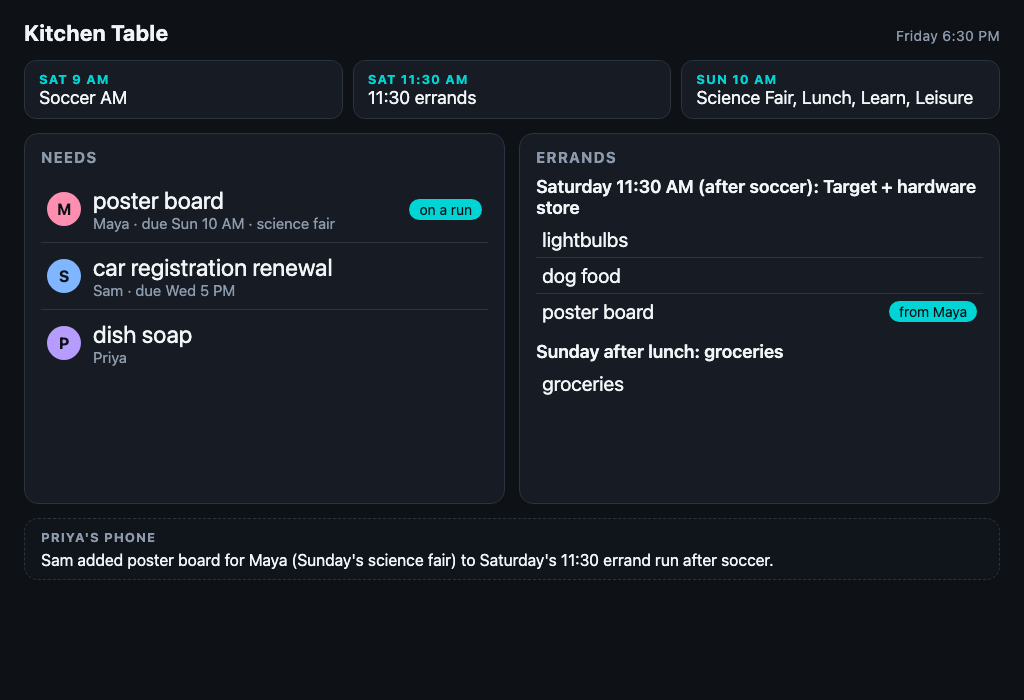
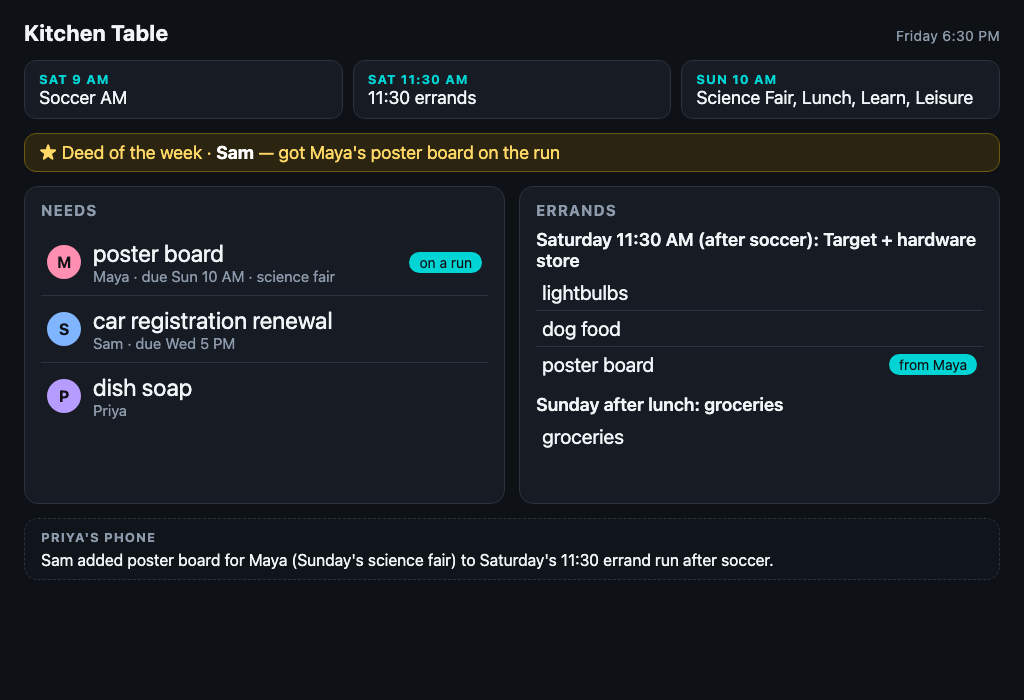
Add Deed of the week: server-awarded, rule-based kudos on the board
The board names the member who did the most for someone else in the last
7 days. Awarded only by the server from confirmed actions: no tool claims
or votes it, self-help does not count, one credit per need, ties go to
whoever reached the count first. Card renders it; README documents it and
the speaker-identity limit.

Tests: 24 (adds no-self-award, no claim/vote tool, repeat-confirm dedupe,
and a retrying same-turn guard test that is not timing-flaky).

diff --git a/tests/mcp.test.ts b/tests/mcp.test.ts
@@ -33,6 +33,8 @@ async function reset(now?: string | null) {
   expect(res.status).toBe(200);
 }
 
+const before0Deed = (state: any) => state.board.deed;
+
 beforeEach(async () => {
   await reset();
 });
@@ -154,15 +156,11 @@ describe("tools", () => {
     expect(p.structuredContent.requires_confirmation).toBe(true);
     expect(p.content[0].text).toBe("Add poster board for Maya to Saturday's 11:30 errand run after soccer, and let Priya know?");
 
+    expect(before0Deed(await (await fetch(`${BASE}/demo/state`)).json())).toBeNull();
     // nothing written yet
     const before = await (await fetch(`${BASE}/demo/state`)).json() as any;
     expect(before.board.needs.find((n: any) => n.need_id === "need_posterboard").status).toBe("open");
     expect(before.inbox).toEqual([]);
-
-    // same-turn confirm is refused
-    const early = await call("confirm_proposal", { proposal_id: p.structuredContent.proposal_id, confirmed: true });
-    expect(early.isError).toBe(true);
-    expect(early.content[0].text).toBe("Let me check with you first.");
 
     await sleep(1100);
     const c = await call("confirm_proposal", { proposal_id: p.structuredContent.proposal_id, confirmed: true });
@@ -172,16 +170,34 @@ describe("tools", () => {
     const sat = c.structuredContent.board.errands.find((e: any) => e.errand_id === "errand_sat_after_soccer");
     expect(sat.items).toContainEqual({ label: "poster board", need_id: "need_posterboard", from: "Maya" });
 
+    expect(c.structuredContent.board.deed).toEqual({ member_id: "member_sam", name: "Sam", count: 1, text: "got Maya's poster board on the run" });
+
     // Priya's inbox
     const after = await (await fetch(`${BASE}/demo/state`)).json() as any;
     expect(after.inbox[0].to_name).toBe("Priya");
     expect(after.inbox[0].text).toBe("Sam added poster board for Maya (Sunday's science fair) to Saturday's 11:30 errand run after soccer.");
 
-    // idempotent
+    // idempotent: a repeat confirm does not add a second credit
     const twice = await call("confirm_proposal", { proposal_id: p.structuredContent.proposal_id, confirmed: true });
     expect(twice.isError).toBeFalsy();
     const final = await (await fetch(`${BASE}/demo/state`)).json() as any;
     expect(final.inbox.length).toBe(1);
+    expect(final.board.deed.count).toBe(1);
+  });
+
+  it("a confirm in the same turn as its question is refused", async () => {
+    // Timing-based by design, so try a few fresh needs: on a slow machine one round trip can pass 1 s.
+    let refused = false;
+    for (let i = 0; i < 4 && !refused; i++) {
+      const n = await call("add_need", { speaker: "Maya", item: `guard probe ${i}`, due: "Sunday" });
+      const p = await call("propose_add_to_errand", { need_id: n.structuredContent.need_id, errand_id: "errand_sat_after_soccer", speaker: "Sam" });
+      const early = await call("confirm_proposal", { proposal_id: p.structuredContent.proposal_id, confirmed: true });
+      if (early.isError) {
+        expect(early.content[0].text).toBe("Let me check with you first.");
+        refused = true;
+      }
+    }
+    expect(refused).toBe(true);
   });
 
   it("confirm with confirmed=false cancels and writes nothing", async () => {
@@ -193,6 +209,19 @@ describe("tools", () => {
     const state = await (await fetch(`${BASE}/demo/state`)).json() as any;
     expect(state.board.needs.find((n: any) => n.need_id === "need_posterboard").status).toBe("open");
     expect(state.inbox).toEqual([]);
+  });
+
+  it("deed of the week: no self-award, nothing to claim, and it is only ever computed by the server", async () => {
+    // Maya schedules her own poster board: that is not a deed for anyone.
+    const p = await call("propose_add_to_errand", { need_id: "need_posterboard", errand_id: "errand_sat_after_soccer", speaker: "Maya" });
+    await call("whats_new_for_me", { speaker: "Priya" }); // does not touch this proposal
+    await sleep(1100);
+    const c = await call("confirm_proposal", { proposal_id: p.structuredContent.proposal_id, confirmed: true });
+    expect(c.isError).toBeFalsy();
+    expect(c.structuredContent.board.deed).toBeNull();
+    // there is no tool that awards or claims a deed
+    const { body } = await rpc("tools/list");
+    expect(body.result.tools.map((t: any) => t.name).join(" ")).not.toMatch(/deed|award|claim|vote/);
   });
 
   it("unknown proposal is a speakable error", async () => {

diff --git a/src/domain.ts b/src/domain.ts
@@ -78,6 +78,8 @@ export interface State {
   counters: { need: number; proposal: number; inbox: number };
   last_speaker: string | null;
   highlight: string | null;
+  /** Verified deeds: one per need, only for someone else's need. Awarded by the server, never claimed. */
+  deeds?: { need_id: string; by: string; owner: string; at_ms: number; text: string }[];
 }
 
 export interface ToolResult {
@@ -167,6 +169,7 @@ export function seed(realNow: number, nowOverride: string | null): State {
     counters: { need: 0, proposal: 0, inbox: 0 },
     last_speaker: null,
     highlight: null,
+    deeds: [],
   };
 }
 
@@ -225,6 +228,27 @@ const byDue = (a: Need, b: Need) => {
   return a.due_ms - b.due_ms || a.created_ms - b.created_ms;
 };
 
+// ---------- Deed of the week ----------
+// Awarded by the server from confirmed actions. No tool lets anyone give or claim it, and there are no votes.
+// Rules: only deeds for someone else's need count; one credit per need; the last 7 days count;
+// most deeds wins; a tie goes to whoever reached that count first; at least one deed is needed.
+const WEEK_MS = 7 * 24 * 3600_000;
+
+function deedOfTheWeek(s: State, now: number) {
+  const recent = (s.deeds ?? []).filter((d) => d.at_ms > now - WEEK_MS && d.at_ms <= now + 3600_000).sort((a, b) => a.at_ms - b.at_ms);
+  if (!recent.length) return null;
+  const tally = new Map<string, { count: number; reached_ms: number; text: string }>();
+  for (const d of recent) {
+    const t = tally.get(d.by) ?? { count: 0, reached_ms: 0, text: "" };
+    t.count += 1;
+    t.reached_ms = d.at_ms;
+    t.text = d.text;
+    tally.set(d.by, t);
+  }
+  const [by, best] = [...tally.entries()].sort((a, b) => b[1].count - a[1].count || a[1].reached_ms - b[1].reached_ms)[0];
+  return { member_id: by, name: nameOf(s, by), count: best.count, text: best.text };
+}
+
 // ---------- board (what the card renders) ----------
 
 export function board(s: State, realNow: number, highlight: string | null = s.highlight) {
@@ -274,6 +298,7 @@ export function board(s: State, realNow: number, highlight: string | null = s.hi
     needs,
     errands,
     strip,
+    deed: deedOfTheWeek(s, now),
     highlight_need_id: highlight,
   };
 }
@@ -462,6 +487,11 @@ function confirm(s: State, a: Record<string, unknown>, now: number, realNow: num
     : `${need.item} for ${nameOf(s, need.owner)}`;
   const text = `${nameOf(s, proposer)} added ${detail} to ${errandDay(errand)} ${errand.speech}.`;
   s.history.push({ at_ms: now, text });
+  // Deed of the week: server-awarded, only for helping someone else, one credit per need.
+  s.deeds = s.deeds ?? [];
+  if (proposer !== need.owner && !s.deeds.some((d) => d.need_id === need.id)) {
+    s.deeds.push({ need_id: need.id, by: proposer, owner: need.owner, at_ms: now, text: `got ${nameOf(s, need.owner)}'s ${need.item} on the run` });
+  }
   const notify: Notification[] = recipients.map((r) => {
     s.inbox.push({ id: `msg_${++s.counters.inbox}`, to: r.id, text, at_ms: now });
     return { to_id: r.id, to_name: r.name, text };

diff --git a/src/card.ts b/src/card.ts
@@ -33,6 +33,8 @@ h1 small{font-weight:400;color:var(--dim);font-size:14px}
 .run .row{font-size:20px;padding:6px}
 .fresh{animation:pop 2.4s ease-out}
 @keyframes pop{0%{background:#00d4d455;transform:scale(1.03)}100%{background:transparent;transform:none}}
+.deed{background:#2a2410;border:1px solid #6b5a14;color:#ffd866;border-radius:12px;padding:8px 14px;font-size:18px}
+.deed b{color:#fff}
 .inbox{background:#10151c;border:1px dashed var(--line);border-radius:14px;padding:10px 16px;font-size:16px}
 .inbox h2{margin:0 0 6px;font-size:13px;color:var(--dim);text-transform:uppercase;letter-spacing:.08em}
 .muted{color:var(--dim)}
@@ -49,6 +51,7 @@ h1 small{font-weight:400;color:var(--dim);font-size:14px}
     if(!b)return;
     var h='<h1>Kitchen Table <small>'+esc(b.as_of_iso?new Date(b.as_of_iso).toLocaleString('en-US',{timeZone:'America/New_York',weekday:'long',hour:'numeric',minute:'2-digit'}):'')+'</small></h1>';
     h+='<div class="strip">'+(b.strip||[]).map(function(s){return '<div><b>'+esc(s.day)+' '+esc(s.time)+'</b>'+esc(s.label)+'</div>';}).join('')+'</div>';
+    if(b.deed)h+='<div class="deed">\u2605 Deed of the week \u00b7 <b>'+esc(b.deed.name)+'</b> \u2014 '+esc(b.deed.text)+(b.deed.count>1?' ('+b.deed.count+' deeds)':'')+'</div>';
     h+='<div class="cols"><div class="col"><h2>Needs</h2>';
     var needs=b.needs||[];
     if(!needs.length)h+='<div class="muted">Nothing needed right now.</div>';

diff --git a/README.md b/README.md
@@ -17,6 +17,15 @@ Built for the Alexa+ track of the Amazon Developer Hackathon "Build, Ship, Shape
 
 No purchases are made.
 
+### Deed of the week (the opposite of a timeout)
+The board names the household member who did the most for someone else this week: "★ Deed of the week · **Sam** — got Maya's poster board on the run". It is awarded by the server, never claimed or voted on:
+- No tool gives or claims a deed (a test checks the tool list).
+- Only helping someone else's need counts, so scheduling your own earns nothing.
+- One credit per need, so the same need cannot be farmed, and a repeat confirm adds nothing.
+- The last 7 days count; most deeds wins; a tie goes to whoever reached the count first.
+
+Limit: `speaker` is simulated in this build, so someone could pass another person's name. With real Alexa voice identification the same rules would hold per person.
+
 ## Architecture
 ```
 Echo / Alexa simulator ─▶ Alexa skill (alexa-skill-mcp-bridge) ─▶ Strands agent (AgentCore, Nova 2 Lite)
